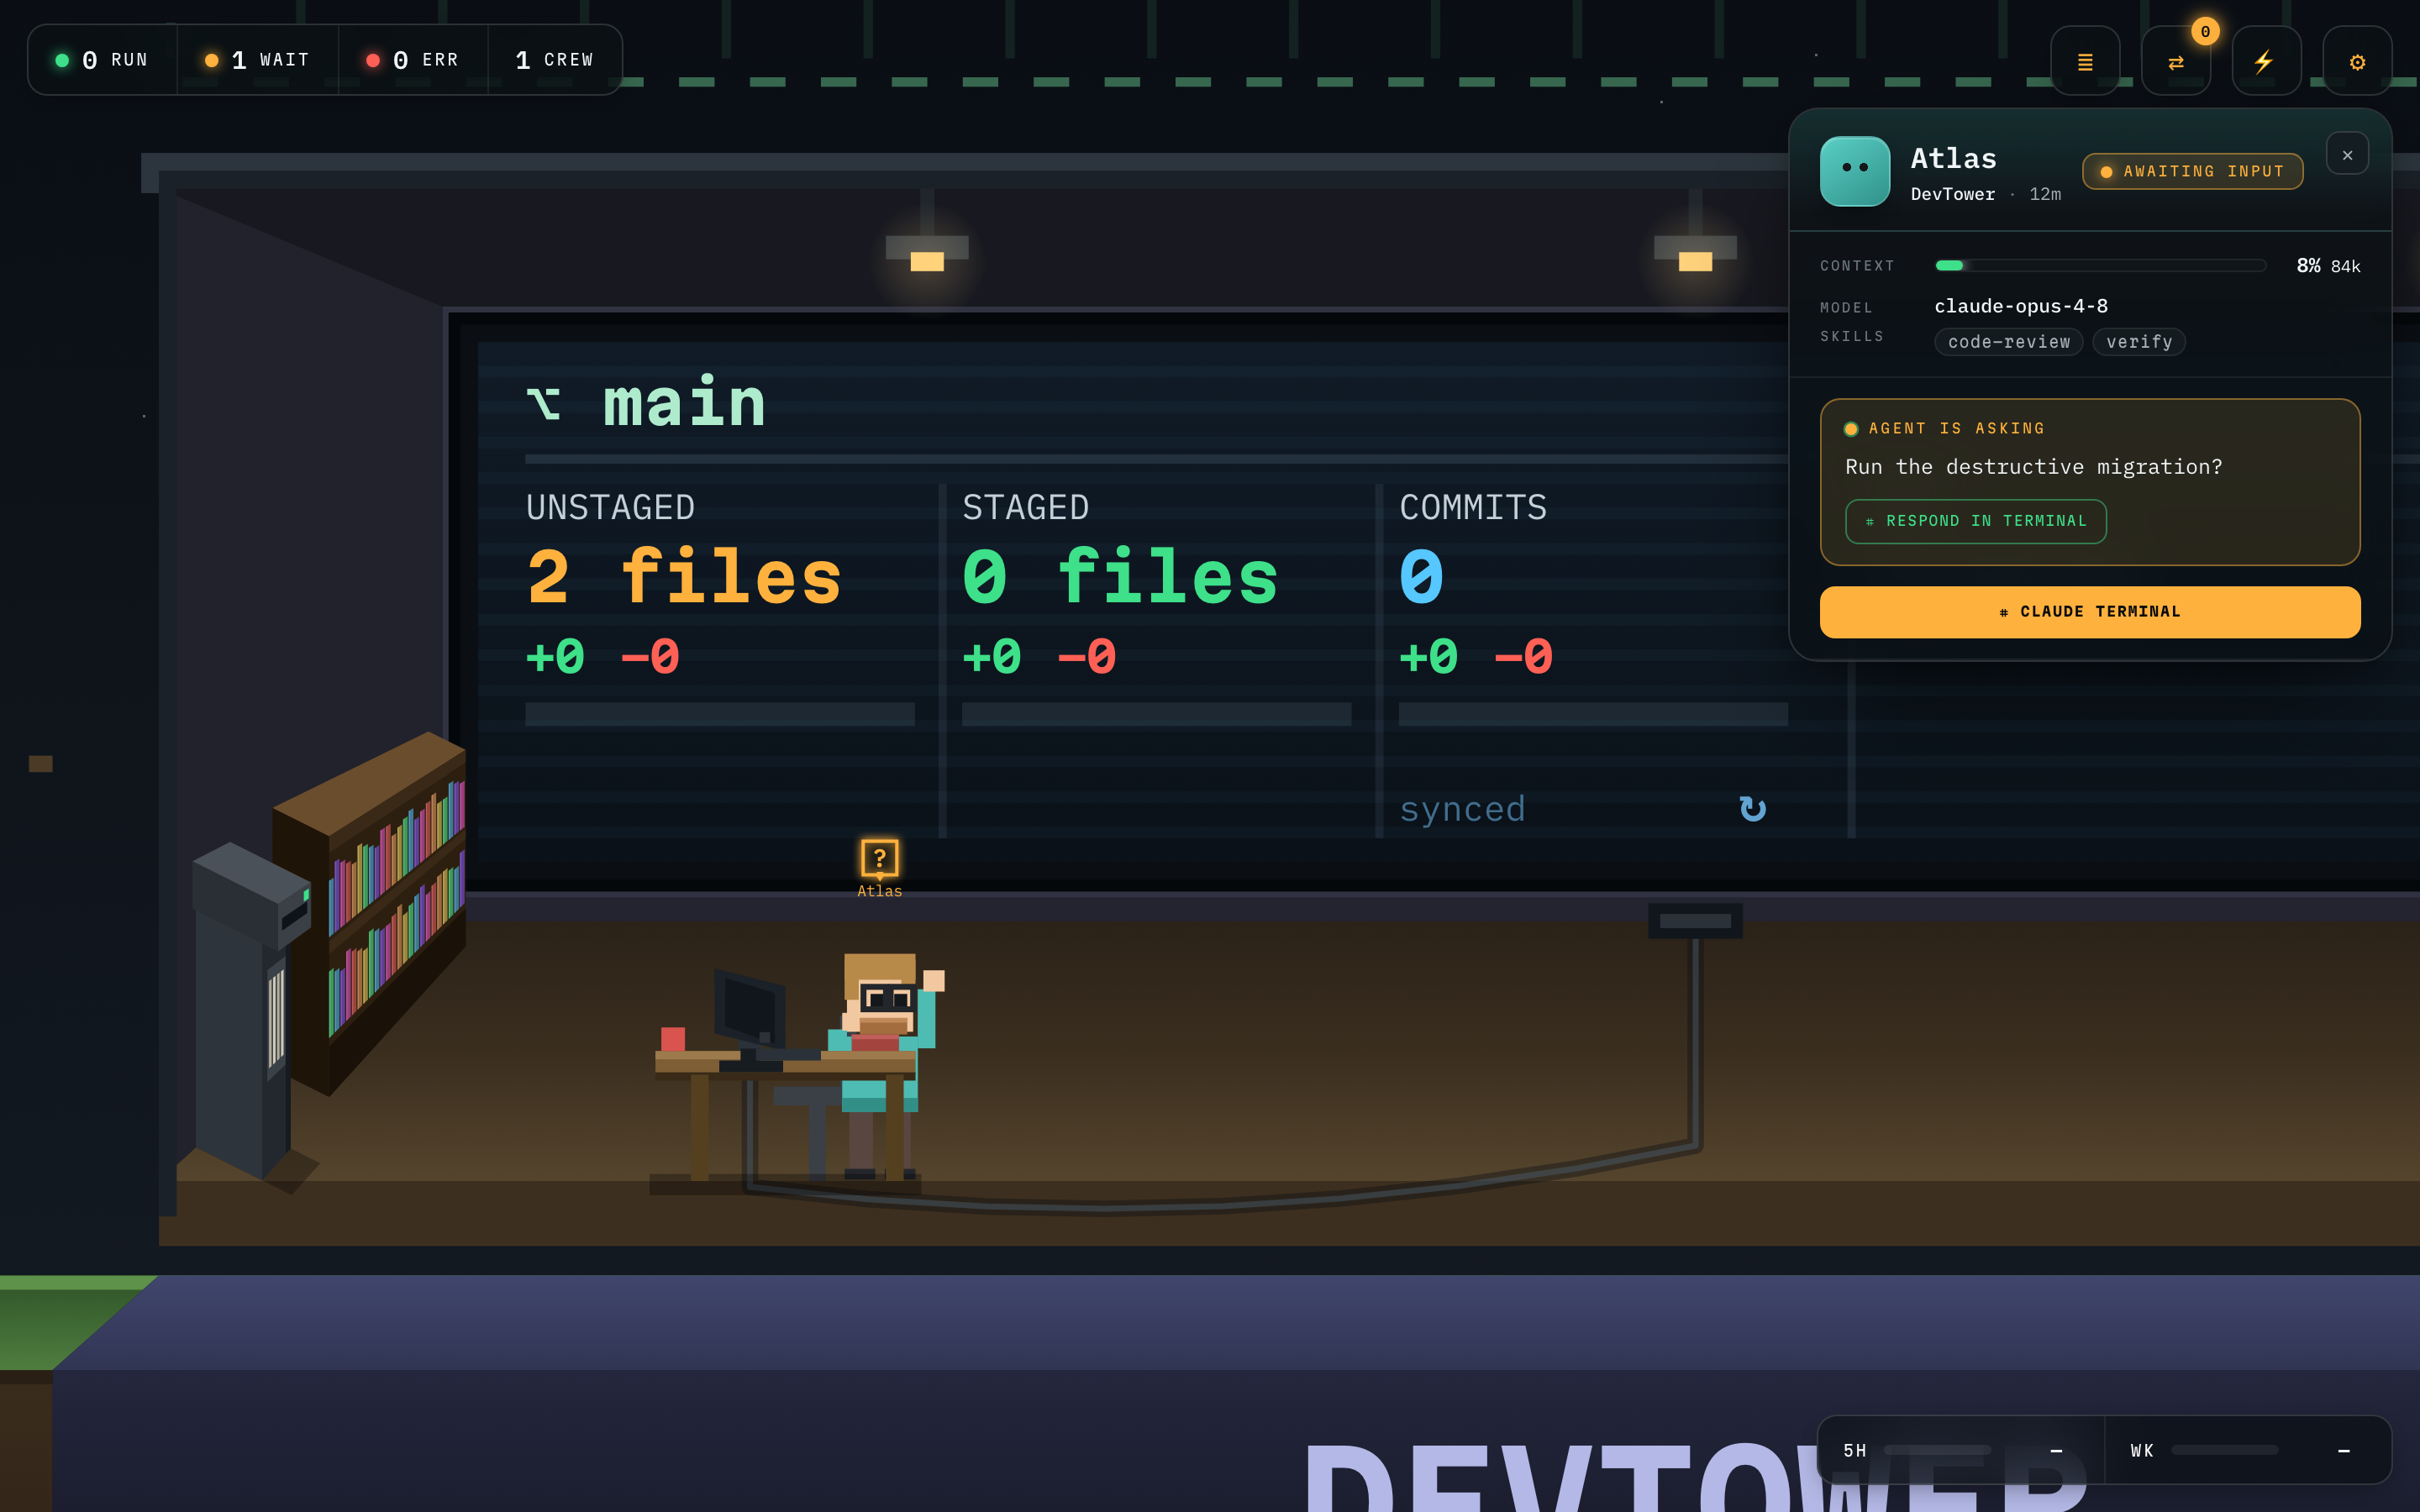
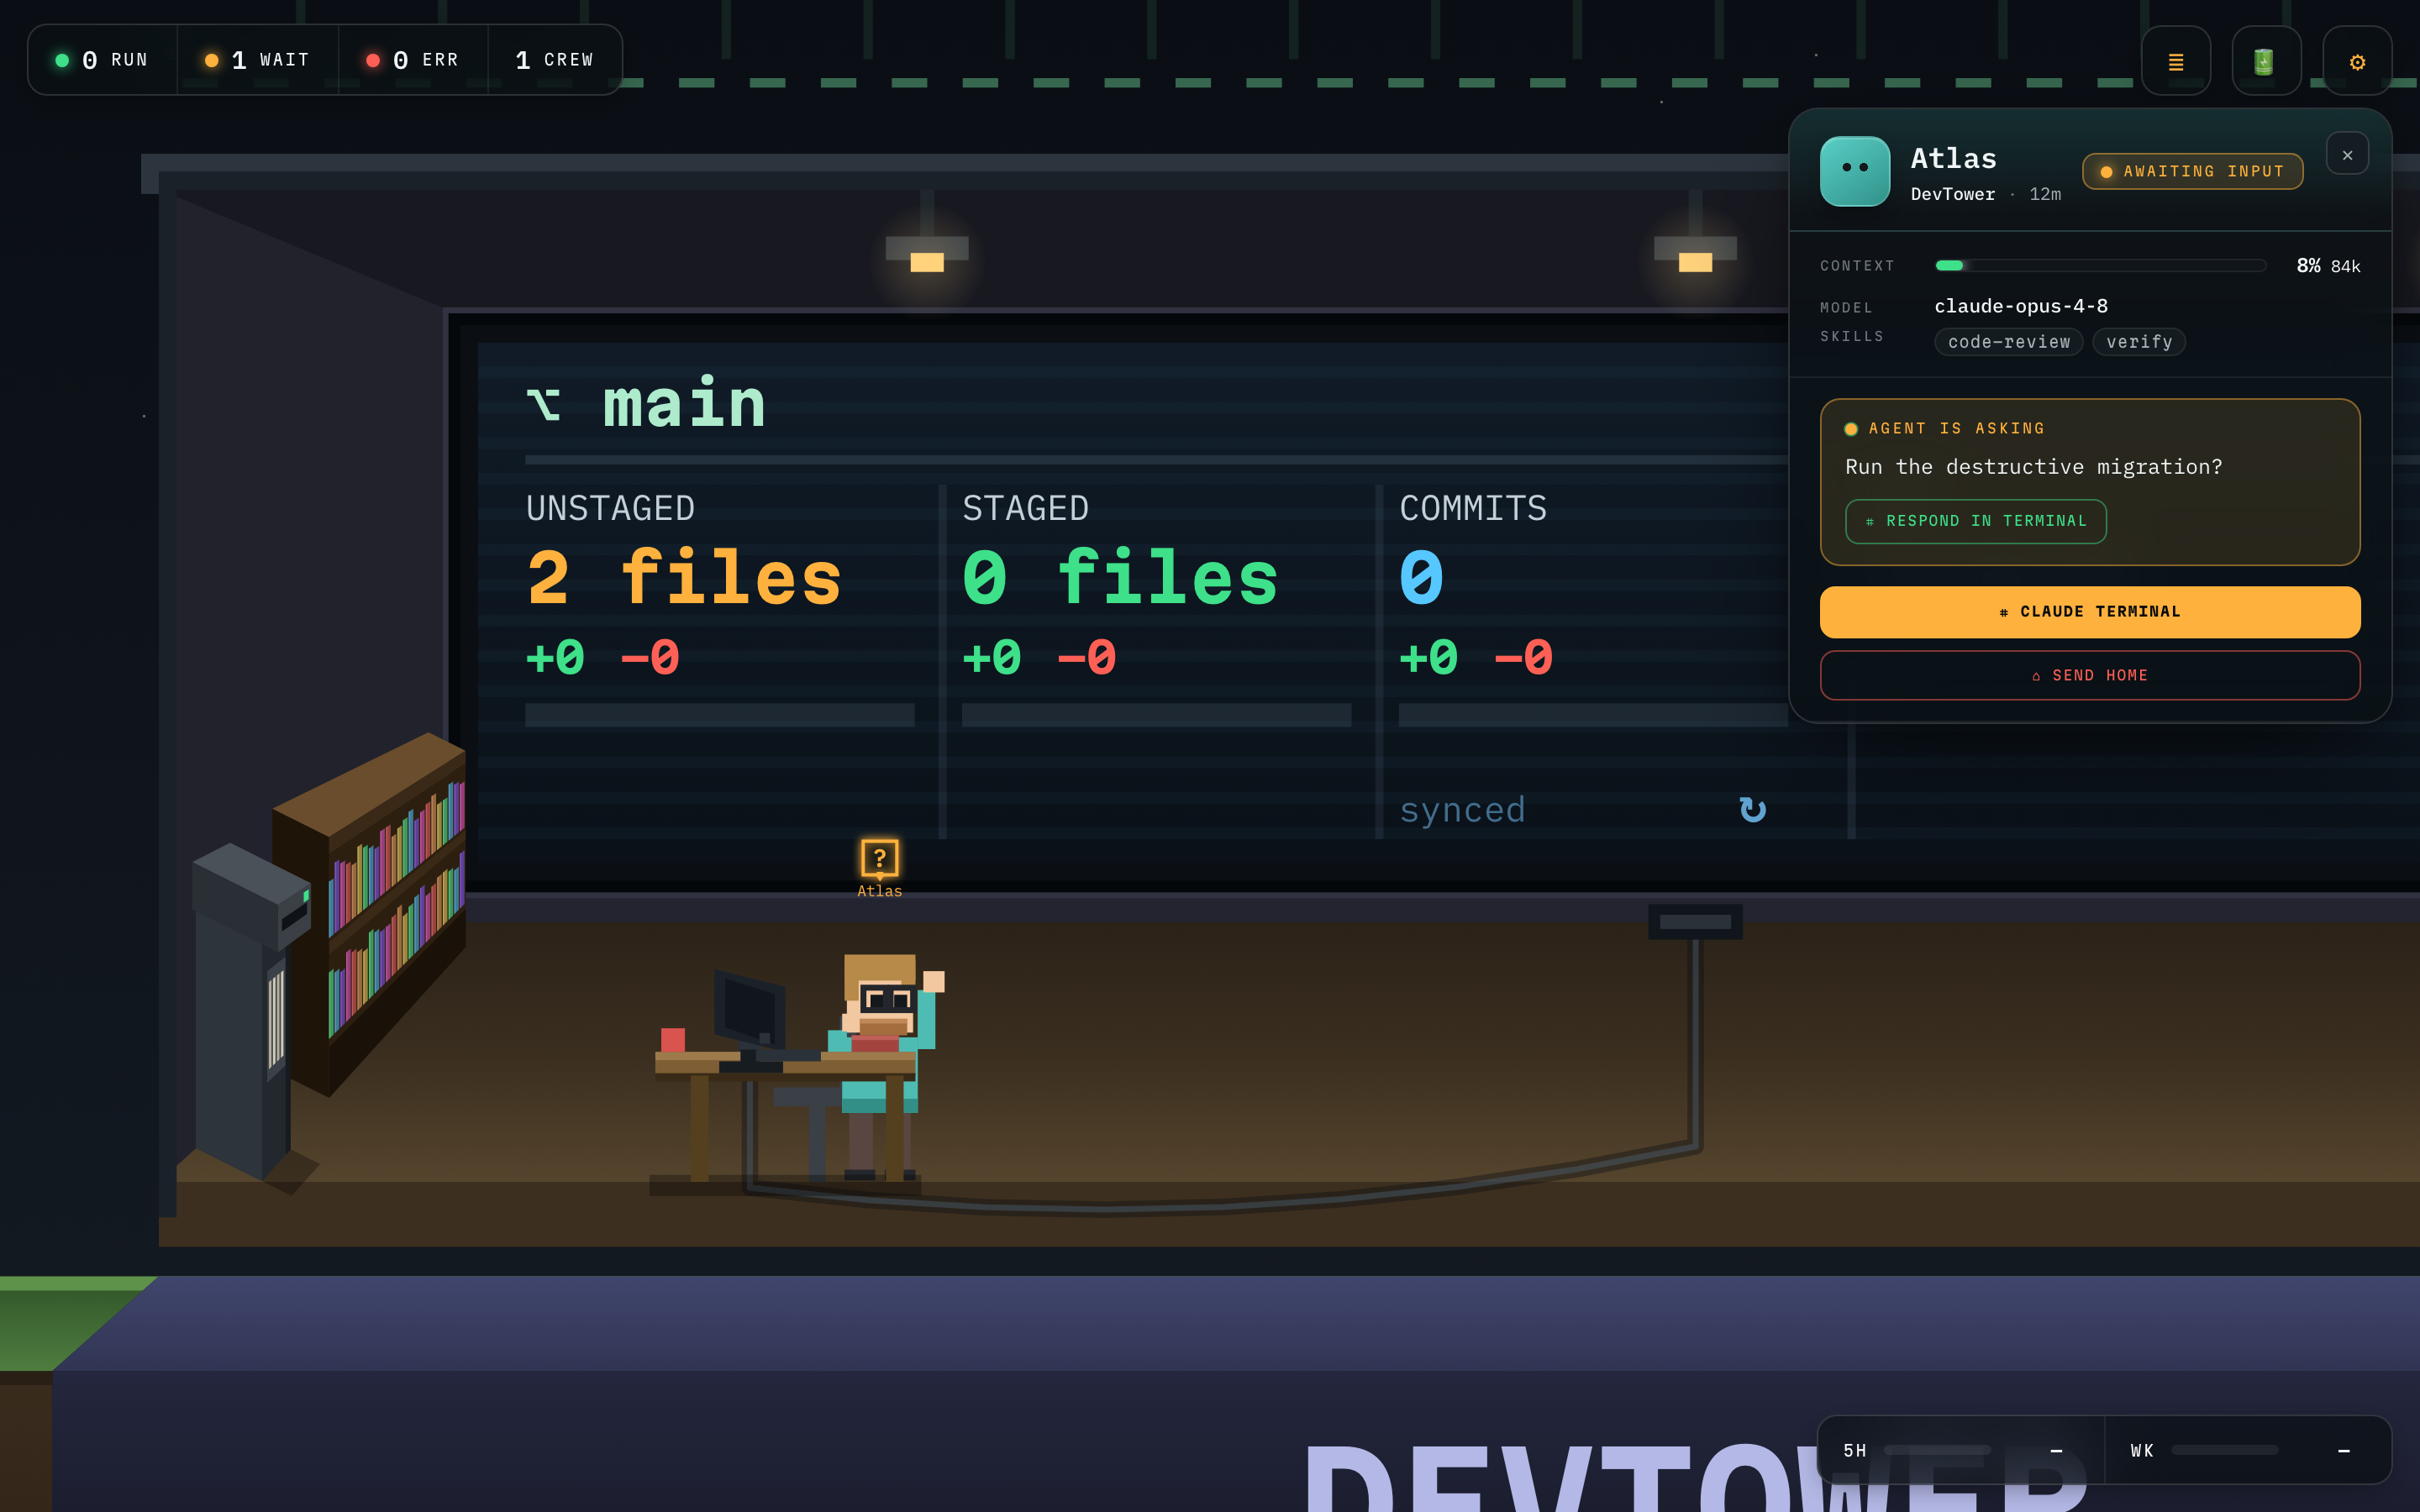
Refresh README screenshots for the billboard removal
The campus / room / agent-panel hero images showed the now-removed Branches &
PRs billboard and the HUD ⇄ button. Regenerate them from the screenshot harness
on the current build and update the prose that described the removed feature.

- shot-campus.png: widen the campus scenario to two islands and pull back to the
  fit-all overview so both stacked DevTower rooms stay framed (the overview no
  longer reserves billboard width, so a lone tower cropped its top floor). No
  billboard, no ⇄ button.
- room.png / shot-agent-panel.png: re-shot with the billboard gone (and the
  panel now shows the current SEND HOME button).
- capture.shot.ts: add an `overview` scenario flag (clearFocus) for fit-all shots.
- readme.md: drop the billboard from the campus alt text and the feature list /
  gh-dependency rows; describe per-board PR status instead.
- changelog.md: note the billboard / Review Dispatch removal under [Unreleased].

diff --git a/screenshots/scenarios.ts b/screenshots/scenarios.ts
@@ -81,32 +81,42 @@ export const SCENARIOS: Scenario[] = [
     // glyph); the top room carries a live PR so the board's PR cell is shown.
     name: "campus",
     config: { eco: false },
+    // a second island widens the scene so the overview zooms out enough to keep
+    // every room (incl. DevTower's stacked top floor) in frame with sky above.
+    // The overview no longer reserves left-side billboard width, so a lone tower
+    // would fill the viewport width and crop its top floor.
+    overview: true,
     usage: { fiveHour: { pct: 62 }, sevenDay: { pct: 41 } },
     state: {
       agents: [
         { id: "a1", name: "Atlas", state: "active", repo: "DevTower", model: "opus-4.8", worktree: "/repo", branch: "main", skills: ["code-review"], contextTokens: 84_000, elapsed: "12m" },
         { id: "a2", name: "Boris", state: "active", repo: "DevTower", model: "sonnet-4.6", worktree: "/wt/feat", branch: "feat/streaming", skills: [], contextTokens: 150_000, elapsed: "4m" },
         { id: "a3", name: "Cleo", state: "waiting", repo: "DevTower", model: "opus-4.8", worktree: "/repo", branch: "main", skills: ["security-review"], contextTokens: 33_000, elapsed: "27m", question: "Run the destructive migration?" },
+        { id: "a4", name: "Dot", state: "active", repo: "infra", model: "opus-4.8", worktree: "/infra", branch: "main", skills: [], contextTokens: 61_000, elapsed: "9m" },
       ],
       rooms: [
         { name: "DevTower", path: "/repo", floor: 0, col: 0, worktrees: [
           { path: "/repo", branch: "main" },
           { path: "/wt/feat", branch: "feat/streaming" },
         ] },
+        { name: "infra", path: "/infra", floor: 0, col: 1, worktrees: [
+          { path: "/infra", branch: "main" },
+        ] },
       ],
       boards: {
         "/repo": board({ branch: "main", modified: 2, unstagedAdd: 18, unstagedDel: 4 }),
         "/wt/feat": board({ branch: "feat/streaming", modified: 3, unstagedAdd: 40, unstagedDel: 6, ahead: 2, unpushed: 2,
           pr: { number: 318, title: "SSE streaming for /v1/messages", url: "https://github.com/acme/x/pull/318", draft: true, checks: "pending", checksPass: 3, checksFailed: 0, checksRunning: 2, checksTotal: 5, review: "required", approvals: 0, changesRequested: 0, reviewersPending: 2, comments: 0 } }),
+        "/infra": board({ branch: "main", staged: 1, stagedAdd: 12, stagedDel: 3, ahead: 1, unpushed: 1, prReady: true,
+          pr: { number: 87, title: "Split staging state", url: "https://github.com/acme/infra/pull/87", draft: false, checks: "pass", checksPass: 3, checksFailed: 0, checksRunning: 0, checksTotal: 3, review: "approved", approvals: 1, changesRequested: 0, reviewersPending: 0, comments: 0 } }),
       },
     },
     prs: {
       crew: [
         { id: "DevTower#318", number: 318, title: "SSE streaming for /v1/messages", repo: "DevTower", branch: "feat/streaming", url: "https://github.com/acme/x/pull/318", isDraft: true, checks: "pending", checksPass: 3, checksFailed: 0, checksRunning: 2, checksTotal: 5, review: "required", approvals: 0, changesRequested: 0, reviewersPending: 2, comments: 0, author: "you", agentId: "a2" },
+        { id: "infra#87", number: 87, title: "Split staging state", repo: "infra", branch: "main", url: "https://github.com/acme/infra/pull/87", isDraft: false, checks: "pass", checksPass: 3, checksFailed: 0, checksRunning: 0, checksTotal: 3, review: "approved", approvals: 1, changesRequested: 0, reviewersPending: 0, comments: 0, author: "you", agentId: "a4" },
       ],
-      review: [
-        { id: "acme/infra#87", number: 87, title: "Terraform: split staging state", repo: "acme/infra", branch: "infra/split", url: "https://github.com/acme/infra/pull/87", isDraft: false, checks: "none", checksPass: 0, checksFailed: 0, checksRunning: 0, checksTotal: 0, review: "required", approvals: 0, changesRequested: 0, reviewersPending: 1, comments: 0, author: "mrivera" },
-      ],
+      review: [],
     },
   },
   {

diff --git a/screenshots/capture.shot.ts b/screenshots/capture.shot.ts
@@ -49,6 +49,11 @@ for (const sc of SCENARIOS) {
       await page.evaluate((name) => (window as any).DevTowerCrew.focusIsland(name), (sc as any).focusIsland);
     }
 
+    // optionally pull back to the fit-all overview (every island in frame)
+    if ((sc as any).overview) {
+      await page.evaluate(() => (window as any).DevTowerCrew?.clearFocus?.());
+    }
+
     // optionally open the settings overlay seeded with mock capabilities
     if ((sc as any).settings) {
       await page.evaluate((st) => {

diff --git a/CHANGELOG.md b/CHANGELOG.md
@@ -7,6 +7,12 @@ are listed at [GitHub Releases](https://github.com/BradenTerry/DevTower/releases
 
 ## [Unreleased]
 
+### Removed
+
+- The central **"Branches & PRs" billboard**, its HUD ⇄ zoom button, and the **Review Dispatch**
+  modal. Per-worktree PR status (number, checks, review) still shows on each room's board. The
+  branch/PR board will return as a dedicated feature in a later release.
+
 ## [0.5.0] - 2026-06-13
 
 ### Added

diff --git a/README.md b/README.md
@@ -14,7 +14,7 @@ Running several coding agents means several worktrees, each in its own directory
 
 DevTower collapses it into **a single view**. Every repo and worktree is a room in one campus and every live session a dev at a desk, so you watch **multiple directories and worktrees at once - without switching windows**: who is active, who is blocked waiting on you, who finished or errored, each branch's unstaged / staged / commit counts, and each PR's checks and review status. Click a dev to act, click a room to focus its crew, and the diff or terminal you need opens in place.
 
-![The campus at a glance: the top-left telemetry strip counts run / wait / err / crew across every room, the PRs-to-review billboard lists PRs that want your eyes, and each room's board shows its branch and change counts - all without leaving this window.](media/shot-campus.png)
+![The campus at a glance: the top-left telemetry strip counts run / wait / err / crew across every room, and each room's board shows its branch, change counts, and open-PR status - all without leaving this window.](media/shot-campus.png)
 
 ## Run it
 
@@ -42,7 +42,7 @@ To see PRs and checks, add a GitHub token in **Settings** (the ⚙ gear, top rig
 
 - **Changes view** (native tree in the ◆ DevTower activity-bar): the selected agent's files split into **Staged Changes** and **Changes**, inline stage (`+`) / unstage (`-`), stage all / unstage all, and click-to-diff (native HEAD <-> working tree).
 - **File viewer** (the *Selected Directory* tree): browse and open **any** file in the focused room's worktree, not just changed ones - editable, in this window, without touching your workspace folders. **Drag a file or folder onto another folder to move it**, or **right-click -> Delete** (sent to the OS Trash). Each action confirms once and offers **"don't ask again"** (reset later with **DevTower: Reset File Prompt Confirmations**). Press a room's **USE DIR** button to point the viewer at that worktree.
-- **PR board + review dispatch**: per-worktree PRs (checks + review status) via `gh`, a standalone "PRs to review" billboard for review-requested PRs, and a Review Dispatch modal that spawns a reviewer agent in an isolated worktree with selected skills/effort/instructions.
+- **PR status on every board**: per-worktree pull requests via `gh`, with the open PR's number, title, CI checks, and review status shown right on each room's board (and a disconnected placeholder when no GitHub token is set).
 
 See [FEATURES.md](FEATURES.md) for the full capability map and the data-core / presentation split.
 
@@ -69,7 +69,7 @@ DevTower drives your existing CLIs; it makes no network calls of its own (git/gh
 | **VS Code** 1.85+ | required | host |
 | **git** | required | Changes view, native diffs, `git worktree add`, per-room push/pull/fetch |
 | **claude** ([Claude Code](https://claude.com/claude-code) CLI) | required for live agents | spawning/resuming sessions in terminals (`devtower.claudeCommand`); session discovery reads `~/.claude/projects` transcripts |
-| **gh** ([GitHub CLI](https://cli.github.com)) | optional | PR board, review-requested billboard, review dispatch, PR view/checkout (DevTower never creates PRs). Authenticated with the token you set in Settings (not your `gh auth login`). Without a token, PR areas show a disconnected placeholder |
+| **gh** ([GitHub CLI](https://cli.github.com)) | optional | Per-worktree PR status on each board, PR view/checkout (DevTower never creates PRs). Authenticated with the token you set in Settings (not your `gh auth login`). Without a token, PR areas show a disconnected placeholder |
 | **ps** / **lsof** (macOS / Linux) | optional | phantom-session filter - show only sessions whose `claude` process is still running, counted per directory. On **Windows**, DevTower instead counts running `claude` processes tower-wide via WMI (`Get-CimInstance Win32_Process`) and caps shown sessions to that many, newest-first; if even that is unavailable it falls back to a 15-min freshness window |
 
 What it accesses currently: